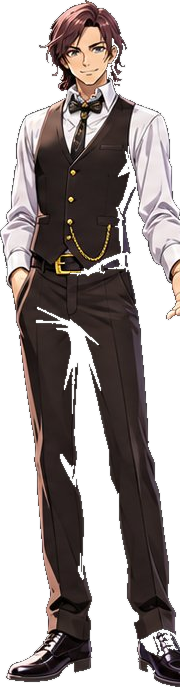
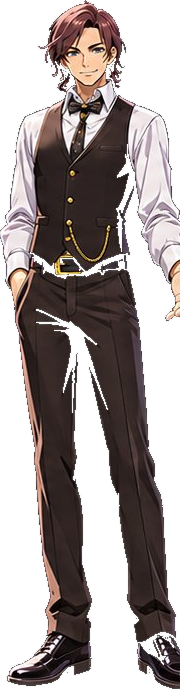
Give the [C] OP/ED the clean nine-character sheet
マトリョーシカ and RPG are the OP and ED of [C] - The Money of Soul and
Possibility Control, so the series label now says so instead of naming
the artists.

Re-cut the nine sprites from the sheet without the name plates, which
keeps the same layout but drops the plate area entirely; the older
plated sheet stays as a fallback.

pv-smoke: 59 renders 205 shots, 60 renders 188, both clean.

diff --git a/pv.js b/pv.js
@@ -312,11 +312,11 @@ const SONGS = [
    series:'忘れらんねえよ',
    cast:[['mirai',0,'前田太尊','#3f7a4a']]},
   {title:'マトリョーシカ', ver:'NICO Touches the Walls', file:'マトリョーシカ', subs:'マトリョーシカ.srt', theme:'matryoshka', art:'matryoshka', lead:3, noBike:true,
-   series:'NICO Touches the Walls',
+   series:'[C]', tv:'[C] - THE MONEY OF SOUL AND POSSIBILITY CONTROL', kicker:'OPテーマ',
    cast:[['matryoshka',3,'余賀公磨','#5c8fd6'],['matryoshka',0,'井稲田','#8a7a5a'],['matryoshka',1,'真坂本','#c04a6a'],['matryoshka',2,'真朱','#d63a3a'],
          ['matryoshka',4,'三國壮一郎','#3a3a5a'],['matryoshka',5,'Q','#7ad0c0'],['matryoshka',6,'生田羽奈日','#b8a0d8'],['matryoshka',7,'ジェニファー','#d8d0a8'],['matryoshka',8,'竹田崎重臣','#7a9a4a']]},
   {title:'RPG', ver:'SEKAI NO OWARI', file:'RPG', subs:'RPG.srt', theme:'rpg', art:'matryoshka', lead:3, noBike:true,
-   series:'SEKAI NO OWARI',
+   series:'[C]', tv:'[C] - THE MONEY OF SOUL AND POSSIBILITY CONTROL', kicker:'EDテーマ',
    cast:[['matryoshka',3,'余賀公磨','#5c8fd6'],['matryoshka',0,'井稲田','#8a7a5a'],['matryoshka',1,'真坂本','#c04a6a'],['matryoshka',2,'真朱','#d63a3a'],
          ['matryoshka',4,'三國壮一郎','#3a3a5a'],['matryoshka',5,'Q','#7ad0c0'],['matryoshka',6,'生田羽奈日','#b8a0d8'],['matryoshka',7,'ジェニファー','#d8d0a8'],['matryoshka',8,'竹田崎重臣','#7a9a4a']]},
   {title:'月の爆撃機', ver:'カバー', file:'月の爆撃機', subs:'月の爆撃機.srt', theme:'bakugeki', art:'rolling', lead:0, noBike:true,

diff --git a/tools/cutout-matryoshka.py b/tools/cutout-matryoshka.py
@@ -10,7 +10,10 @@ from scipy import ndimage
 ROOT = os.path.dirname(os.path.dirname(os.path.abspath(__file__)))
 OUT = os.path.join(ROOT, 'assets/ref/cast')
 MANIFEST = os.path.join(OUT, 'cast.json')
-SRC = os.path.join(ROOT, 'assets/ref/matryoshka/lineup.jpg')
+# 優先用沒有名牌的版本；沒有的話才退回帶名牌的舊圖
+SRC = os.path.join(ROOT, 'assets/ref/matryoshka/lineup-clean.jpg')
+if not os.path.exists(SRC):
+    SRC = os.path.join(ROOT, 'assets/ref/matryoshka/lineup.jpg')
 PLATE_TOP = 712          # 名牌從這裡開始，整條切掉
 
 # 索引＝PV 卡司順序；主唱是中央的余賀公磨

diff --git a/README.md b/README.md
@@ -201,11 +201,11 @@ macOS 也可雙擊 `啟動播放器.command`，會在終端機啟動伺服器並
 
 ### マトリョーシカ：NICO Touches the Walls
 
-已加入歌詞 PV（編號 59，約 300.35 秒）與第二版播放器，使用使用者提供的 MP3 與 33 段日中雙語字幕。整首 ASR 漏掉開頭，22.10 秒的第一句「生き抜くために着込んだ」是另外用 16–36 秒的局部視窗補回來的；133–156 與 217–232 是間奏，不掛字幕。時間表寫在 `tools/build-matryoshka-subtitles.mjs`。九位角色井稲田、真坂本、真朱、余賀公磨、三國壮一郎、Q、生田羽奈日、ジェニファー・サトウ、竹田崎重臣由 `tools/cutout-matryoshka.py` 從黑底立繪去背，切成九張獨立精靈（黑衣服因為被輪廓包住不會被吃掉），主唱預設余賀公磨；主題 `matryoshka` 是深紫與暗紅的俄羅斯娃娃配色。
+已加入歌詞 PV（編號 59，約 300.35 秒）與第二版播放器，為 TV 動畫《[C] - THE MONEY OF SOUL AND POSSIBILITY CONTROL》OP；使用使用者提供的 MP3 與 33 段日中雙語字幕。整首 ASR 漏掉開頭，22.10 秒的第一句「生き抜くために着込んだ」是另外用 16–36 秒的局部視窗補回來的；133–156 與 217–232 是間奏，不掛字幕。時間表寫在 `tools/build-matryoshka-subtitles.mjs`。九位角色井稲田、真坂本、真朱、余賀公磨、三國壮一郎、Q、生田羽奈日、ジェニファー・サトウ、竹田崎重臣由 `tools/cutout-matryoshka.py` 從黑底立繪去背，切成九張獨立精靈（黑衣服因為被輪廓包住不會被吃掉），主唱預設余賀公磨；主題 `matryoshka` 是深紫與暗紅的俄羅斯娃娃配色。
 
 ### RPG：SEKAI NO OWARI
 
-已加入歌詞 PV（編號 60，約 245.32 秒）與第二版播放器，使用使用者提供的 MP3 與 43 段日中雙語字幕。整首 ASR 漏掉開頭兩句，22.94 秒起是另外用 18–36 秒的局部視窗補的；120–135 秒那段（闇に飛び込んで／play or fadeout／君の中…）也用局部視窗細分。時間表寫在 `tools/build-rpg-subtitles.mjs`。角色沿用 `matryoshka` 那組九人精靈，主題 `rpg` 是深藍到霓虹青、配洋紅的遊戲畫面配色。
+已加入歌詞 PV（編號 60，約 245.32 秒）與第二版播放器，為同作《[C]》的 ED；使用使用者提供的 MP3 與 43 段日中雙語字幕。整首 ASR 漏掉開頭兩句，22.94 秒起是另外用 18–36 秒的局部視窗補的；120–135 秒那段（闇に飛び込んで／play or fadeout／君の中…）也用局部視窗細分。時間表寫在 `tools/build-rpg-subtitles.mjs`。角色沿用 `matryoshka` 那組九人精靈，主題 `rpg` 是深藍到霓虹青、配洋紅的遊戲畫面配色。
 
 ### 月の爆撃機：カバー
 

diff --git a/assets/ref/matryoshka/README.md b/assets/ref/matryoshka/README.md
@@ -1,12 +1,13 @@
-# マトリョーシカ（NICO Touches the Walls）
+# マトリョーシカ（NICO Touches the Walls）／[C] OP
 
-PV 編號 59，長度 300.35 秒。
+PV 編號 59，長度 300.35 秒。同作的 ED「RPG」為 PV 60，共用這組素材。
 
 ## 檔案
 
 | 檔案 | 內容 |
 | --- | --- |
-| `lineup.jpg` | 使用者提供的九人立繪（黑底、附名牌，1822×863） |
+| `lineup-clean.jpg` | 使用者提供的九人立繪（黑底、無名牌，1821×864），目前切圖來源 |
+| `lineup.jpg` | 較早的版本（附名牌，1822×863），僅作備份 |
 | `asr-ja.json` | `tools/asr.py`（faster-whisper large-v3-turbo）的逐句時間 |
 | `../../マトリョーシカ.srt` | 33 句日中雙語字幕，由 `tools/build-matryoshka-subtitles.mjs` 產生 |
 
